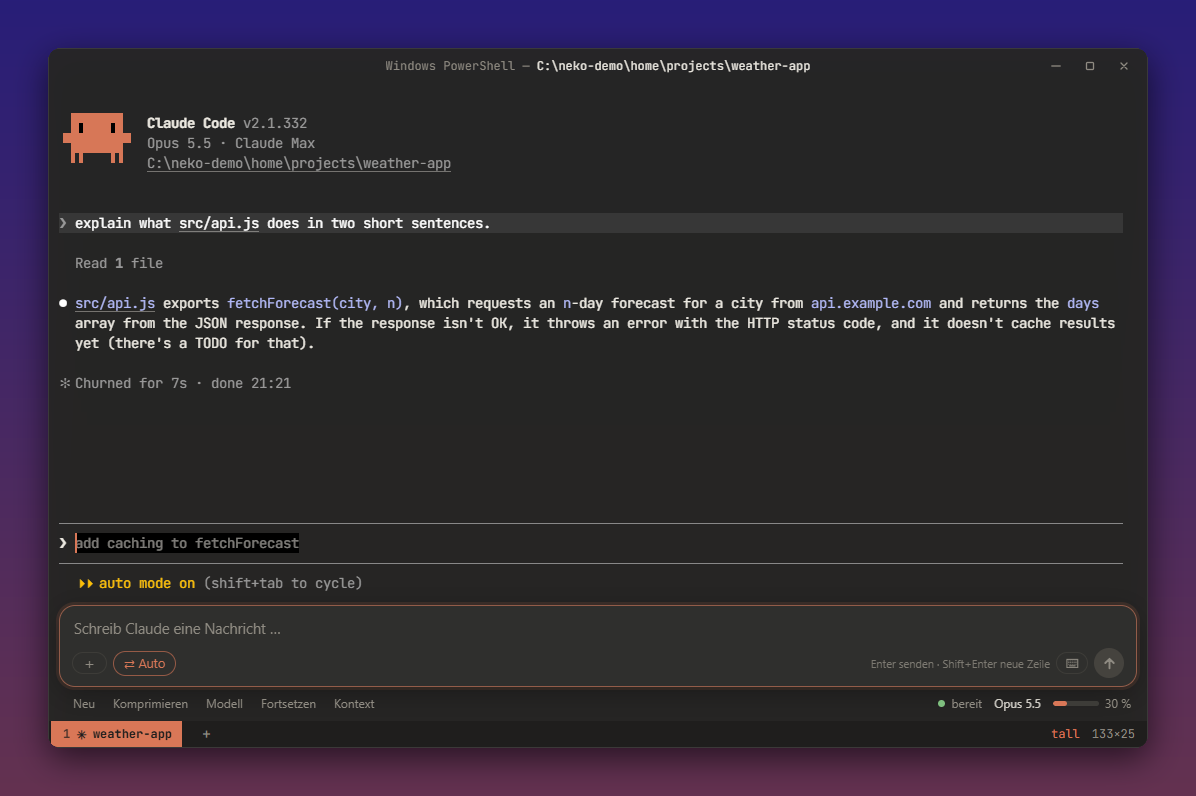
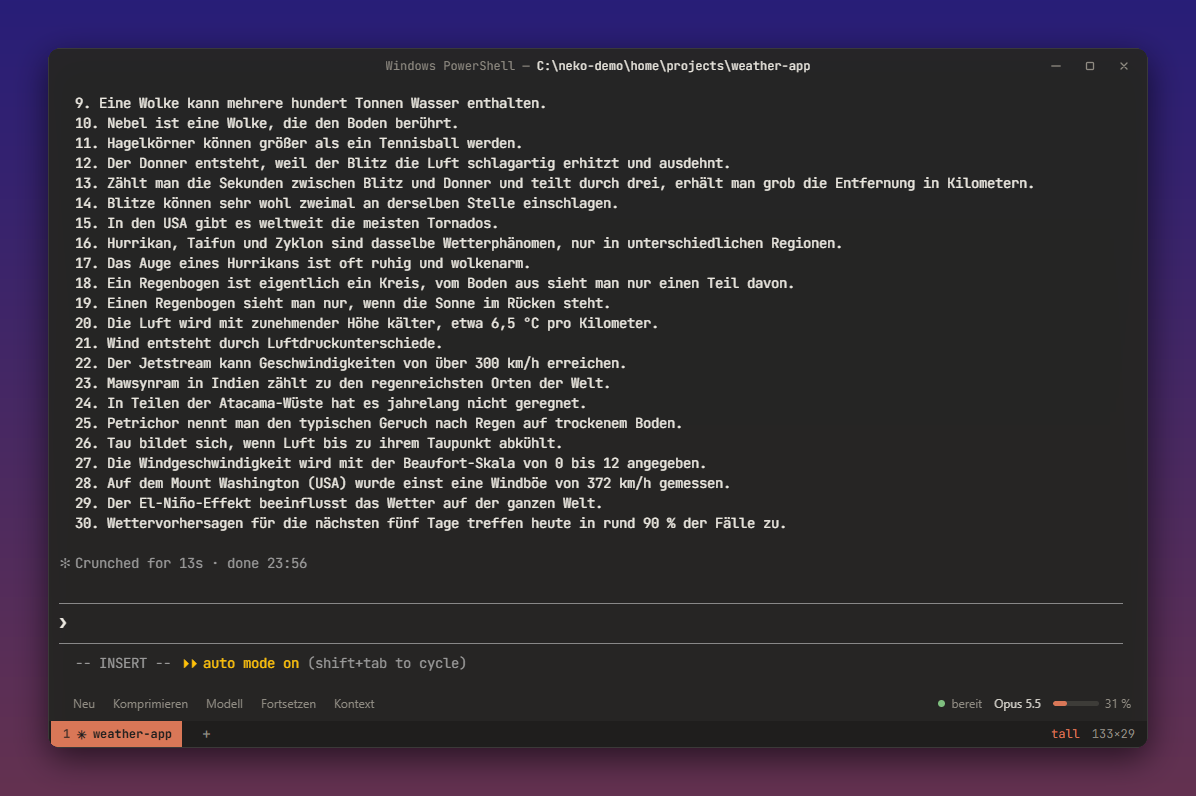
Claude mode: drop the input box, keep the terminal size steady
Claude's busy titles (◐ ◑ …) were not recognized, so Claude mode switched off and on
while Claude worked. Each switch resized the terminal and made Claude redraw, which
tore the screen and showed the prompt twice. Claude mode now stays on until the shell
prompt returns, menus float instead of growing the dock, and typing goes straight to
Claude's own prompt.

Claude-Session: https://claude.ai/code/session_01JTtDC4D3JzaCVPfqqKV2uX

Changed region(s): [[0.0309, 0.1206, 0.9281, 0.7538], [0.0619, 0.7839, 0.4022, 0.8442], [0.7425, 0.8141, 0.959, 0.8744]]

diff --git a/renderer/claude.js b/renderer/claude.js
@@ -6,7 +6,7 @@
   const KEY = { up: '\x1b[A', down: '\x1b[B', enter: '\r', esc: '\x1b', shiftTab: '\x1b[Z', ctrlC: '\x03' };
   const IMG_RE = /\.(png|jpe?g|gif|webp|bmp)$/i;
   // the window title while Claude works starts with a spinner glyph, "✳" when idle
-  const BUSY_TITLE = /^[✶✻✽✢·*⠁-⣿]\s/;
+  const BUSY_TITLE = /^[✶✻✽✢·*⠁-⣿◐◑◒◓]\s/;
 
   const BUILTIN = [
     ['clear', 'Unterhaltung leeren und neu anfangen'],
@@ -71,7 +71,8 @@
       this.histIdx = -1;
       this.draft = '';
       this.autoTerm = false;   // focus went to the terminal because a menu opened
-      this.termMode = false;   // the user chose to type into the terminal directly
+      // no input box of our own: typing always goes straight to Claude's own prompt in the terminal
+      this.termMode = true;
       this.slash = null;       // { items, sel }
       this.commands = null;
       this.build();
@@ -126,7 +127,7 @@
       this.sendBtn.onclick = () => { if (this.showStop()) this.write(KEY.esc); else this.send(); this.refocus(); };
       for (const b of el.querySelectorAll('.cc-quick button')) b.onclick = () => this.quick(b);
       // clicks on empty parts of the dock focus the input
-      el.addEventListener('mousedown', e => { if (!e.target.closest('button,textarea,.cc-slash,.cc-menu')) { e.preventDefault(); this.ta.focus(); } });
+      el.addEventListener('mousedown', e => { if (!e.target.closest('button,.cc-menu')) { e.preventDefault(); this.pane.term.focus(); } });
       new ResizeObserver(() => this.ctx.relayout(this.pane)).observe(el);
       this.restoreDraft();
       this.render();
@@ -152,7 +153,7 @@
     height() { return this.on ? this.el.offsetHeight : 0; }
 
     focus(insert) {
-      if (!this.on) return this.pane.term.focus();
+      if (!this.on || this.termMode) return this.pane.term.focus();
       if (this.menu) { this.pane.term.focus(); return; }
       this.ta.focus();
       if (insert) {
@@ -161,7 +162,7 @@
         this.ta.dispatchEvent(new Event('input'));
       }
     }
-    refocus() { if (!this.menu) this.ta.focus(); else this.pane.term.focus(); }
+    refocus() { this.pane.term.focus(); }
     hasFocus() { return document.activeElement === this.ta; }
 
     write(d) { if (this.pane.id) window.neko.pty.write(this.pane.id, d); }
@@ -447,7 +448,7 @@
         if (had && this.st.waiting) { this.st.waiting = null; this.render(); }
         if (had && this.autoTerm) {
           this.autoTerm = false;
-          if (this.pane.tab.focused === this.pane && document.activeElement === this.pane.term.textarea) this.ta.focus();
+          if (!this.termMode && this.pane.tab.focused === this.pane && document.activeElement === this.pane.term.textarea) this.ta.focus();
         }
       }
       this.el.classList.toggle('menu-open', !!menu);

diff --git a/renderer/renderer.js b/renderer/renderer.js
@@ -185,6 +185,9 @@
       });
       this.term.parser.registerOscHandler(133, data => {
         if (data.startsWith('A')) {
+          this.hasPromptMarks = true;
+          // the shell prompt is back: Claude Code has ended in this pane
+          if (this.isClaude) this.setClaude(false);
           this.promptPending = true;
           this.clearInput();
         }
@@ -218,7 +221,11 @@
         this.title = t;
         // Claude Code sets titles like "✳ Claude Code" or "✳ <task>"
         const claude = /claude/i.test(t) || /^✳\s/.test(t) || C.BUSY_TITLE.test(t);
-        if (claude !== this.isClaude) this.setClaude(claude);
+        // Claude's task titles change while it works; switching the mode off resizes the terminal and
+        // makes Claude redraw (torn, doubled lines). So it stays on until the shell prompt comes back
+        // (OSC 133;A); only shells without prompt marks fall back to the title.
+        if (claude && !this.isClaude) this.setClaude(true);
+        else if (!claude && this.isClaude && !this.hasPromptMarks) this.setClaude(false);
         this.cm.onTitle(t);
         this.tab.render();
       });
@@ -267,7 +274,7 @@
         $('#drop-hint').classList.add('hidden');
         const paths = [...(e.dataTransfer ? e.dataTransfer.files : [])].map(f => window.neko.pathForFile(f)).filter(Boolean);
         if (!paths.length) return;
-        if (this.cm.on && !this.cm.menu) { this.tab.setFocused(this, false); this.cm.addPaths(paths); return; }
+        if (this.cm.on && !this.cm.menu && !this.cm.termMode) { this.tab.setFocused(this, false); this.cm.addPaths(paths); return; }
         this.tab.setFocused(this);
         this.term.paste(paths.map(p => this.quotePath(p)).join(' ') + ' ');
         this.term.focus();

diff --git a/renderer/styles.css b/renderer/styles.css
@@ -381,6 +381,10 @@ body { transition: background-color .35s ease; }
   border-radius: 14px; padding: 10px 12px; box-shadow: 0 8px 26px rgba(0,0,0,.3);
   animation: cc-in .16s ease-out;
 }
+/* no input box of its own: Claude's prompt in the terminal is the input. The menu floats above the
+   status bar instead of growing the dock, so the terminal never changes size while Claude runs. */
+.cc-box, .cc-slash { display: none !important; }
+.cc-menu { position: absolute; left: 0; right: 0; bottom: calc(100% + 6px); }
 @keyframes cc-in { from { opacity: 0; transform: translateY(6px); } }
 .cc-menu-title { font-size: 13px; margin-bottom: 8px; display: flex; gap: 8px; align-items: baseline; line-height: 1.4; }
 .cc-menu-ic { color: var(--accent); flex: none; }

diff --git a/README.md b/README.md
@@ -6,7 +6,7 @@
 
 **A kitty-style terminal for Windows, macOS and Linux, built to work well with [Claude Code](https://claude.com/claude-code).**
 
-Tiling layouts, inline images, popups, clickable paths, and a Claude mode that turns Claude Code's text UI into real buttons and an input box.
+Tiling layouts, inline images, popups, clickable paths, and a Claude mode that turns Claude Code's menus into real buttons.
 
 [**Download**](https://github.com/mehdi-ki/neko-terminal/releases/latest) · [Features](#features) · [Claude Code](#claude-mode) · [The `neko` command](#the-neko-command) · [Build from source](#build-from-source)
 
@@ -32,13 +32,12 @@ Tiling layouts, inline images, popups, clickable paths, and a Claude mode that t
 
 Start `claude` in a Neko pane and Neko switches into Claude mode:
 
-- an app-like **input box** (multi-line, history, file picker) that types into Claude Code for you
 - Claude's menus (permission prompts, `/model`, trust dialogs …) appear as **clickable buttons**
 - a **status bar** with the model, how full the context is and what Claude is doing right now
 - quick buttons for common commands (new chat, compact, model, resume, context)
 - a **desktop notification** when Claude finishes or needs you while you are in another window
 
-![Claude mode with input box, model and context bar](docs/screenshots/claude-mode.png)
+![Claude mode with status bar, model and context](docs/screenshots/claude-mode.png)
 
 ![Claude's menus as buttons, and a popup sent with neko popup](docs/screenshots/claude-menus-and-popups.png)
 
